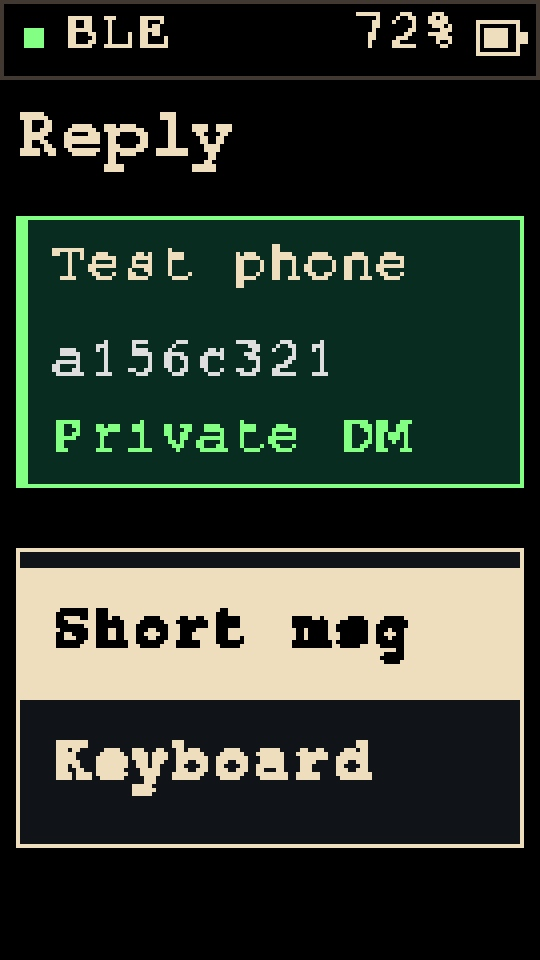
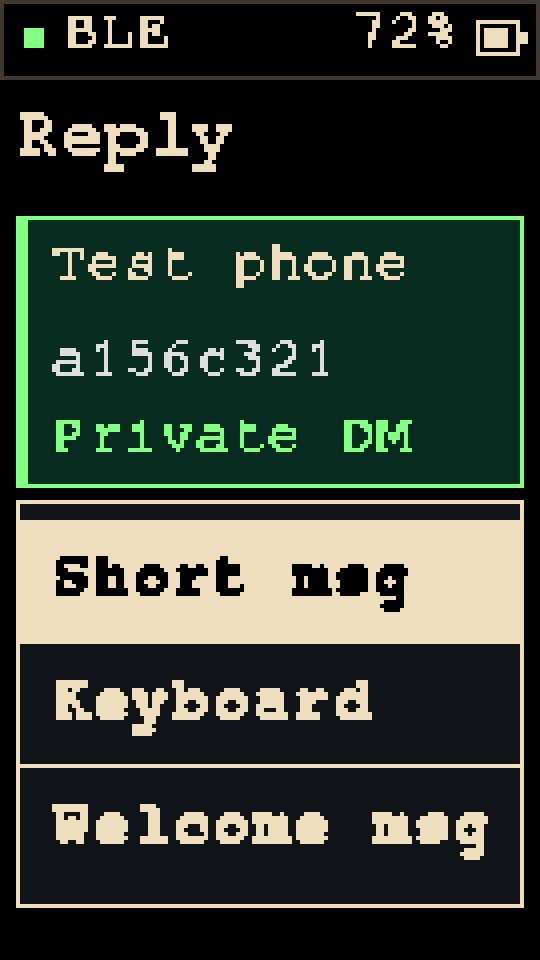
feat: add Welcome msg to composer methods
- Reuse the InfoBot introduction for explicit private or public sending.
- Keep destination/text confirmation and restore method focus when backing out.
- Verify no transmission before confirmation, cancellation and public dispatch.
- Refresh documentation and previews for the three-option picker.

Changed region(s): [[0.0296, 0.5, 0.9778, 0.9688]]

diff --git a/src/Ui.cpp b/src/Ui.cpp
@@ -310,7 +310,7 @@ void draw(const PeerTable& peers, uint32_t now) {
       panel(54,68,true);label(composer.recipientName,60,fg,13,109,compact);
       std::snprintf(value,sizeof(value),"%02x%02x%02x%02x",composer.recipient[0],composer.recipient[1],composer.recipient[2],composer.recipient[3]);
       label(privateDraft?value:"Public chat",84,muted,13,109,compact);label(privateDraft?"Private DM":"Everyone",103,green,13,109,compact);
-      const char* options[]={"Short msg", "Keyboard"};menu(options,2,137,32);
+      const char* options[]={"Short msg", "Keyboard", "Welcome msg"};menu(options,3,125,30);
       break;
     }
     case Screen::ShortMessages: {
@@ -457,7 +457,7 @@ void draw(const PeerTable& peers, uint32_t now) {
 void move(int direction, const PeerTable& peers) {
   if(screen==Screen::Channels&&detail){selection=(selection+2+direction)%2;return;}
   if(composing()) {
-    const size_t count=screen==Screen::Reply?2:screen==Screen::ShortMessages?MessageComposer::presetCount:screen==Screen::Keyboard?MessageComposer::keyCount:queuedMessage?1:reviewPages()+2;
+    const size_t count=screen==Screen::Reply?3:screen==Screen::ShortMessages?MessageComposer::presetCount:screen==Screen::Keyboard?MessageComposer::keyCount:queuedMessage?1:reviewPages()+2;
     selection=(selection+count+direction)%count;return;
   }
   if (screen == Screen::Messages) {
@@ -534,7 +534,10 @@ void updateUi(const PeerTable& peers, uint32_t now) {
       if(screen==Screen::Channels)detail=!directInbox;
     }
   } else if (action == NavigationAction::Select) {
-    if(screen==Screen::Reply){screen=selection==0?Screen::ShortMessages:Screen::Keyboard;selection=0;}
+    if(screen==Screen::Reply){
+      if(selection==2){std::snprintf(composer.draft,sizeof(composer.draft),"%s",kBotIntroduction);confirmDraft();}
+      else {screen=selection==0?Screen::ShortMessages:Screen::Keyboard;selection=0;}
+    }
     else if(screen==Screen::ShortMessages){composer.preset(selection);confirmDraft();}
     else if(screen==Screen::Keyboard){if(composer.selectKey(selection))confirmDraft();}
     else if(screen==Screen::Confirm){

diff --git a/test/ui_test.cpp b/test/ui_test.cpp
@@ -168,7 +168,11 @@ int main() {
   assert(settingsPages[settingsCount-1]==Screen::About);
   // Compose from Nearby, keep recipient/draft through navigation and fail closed without auth.
   fakeJoyc=JoycSample{};screen=Screen::Peers;selection=0;detail=false;press(0);
-  assert(screen==Screen::Reply&&has("Short msg")&&has("Keyboard"));
+  assert(screen==Screen::Reply&&has("Short msg")&&has("Keyboard")&&has("Welcome msg"));
+  const auto beforeWelcome=mesh().stats().sent;
+  selection=2;press(0);assert(screen==Screen::Confirm&&std::strcmp(composer.draft,kBotIntroduction)==0&&mesh().stats().sent==beforeWelcome);
+  press(1,true);assert(screen==Screen::Reply&&selection==2);press(0);press(0);assert(screen==Screen::Peers&&mesh().stats().sent==beforeWelcome);
+  press(0);assert(screen==Screen::Reply);
   screen=Screen::ShortMessages;
   for(selection=0;selection<MessageComposer::presetCount;++selection){draw(table,tick);check();assert(has(MessageComposer::presets[selection]));}
   selection=MessageComposer::presetCount-1;press(2);assert(selection==0);press(1);assert(selection==MessageComposer::presetCount-1);
@@ -196,7 +200,7 @@ int main() {
   screen=Screen::Channels;detail=false;selection=0;press(0);assert(detail&&has("Write msg"));
   press(2);press(0);assert(screen==Screen::Reply&&!privateDraft&&has("Public chat")&&has("#bluetooth"));
   press(0);press(0);assert(screen==Screen::Confirm&&!privateDraft);press(0);assert(screen==Screen::Channels&&detail&&!composer.ready());
-  selection=1;press(0);press(0);press(0);assert(screen==Screen::Confirm);press(1);press(0);
+  selection=1;press(0);selection=2;press(0);assert(screen==Screen::Confirm&&std::strcmp(composer.draft,kBotIntroduction)==0);press(1);press(0);
   assert(queuedMessage&&mesh().message(0)->outgoing&&!mesh().message(0)->privateMessage&&has("Done"));
   press(0);assert(screen==Screen::Channels&&detail&&selection==1);press(1,true);assert(!detail&&screen==Screen::Channels);
   // Long confirmation pages and full keyboard drafts remain within 135x240.

diff --git a/docs/14-direct-message-composer.md b/docs/14-direct-message-composer.md
@@ -6,7 +6,7 @@ Selecting an identified user in Nearby or replying to a message in Channels open
 
 Four screens use the existing cream/green FreeMono style and 135×240 portrait display:
 
-1. **Reply**: recipient, Short msg, Keyboard. Back returns to the exact source screen.
+1. **Reply**: recipient, Short msg, Keyboard and Welcome msg. Back returns to the exact source screen.
 2. **Short msgs**: 32 English presets with a sliding five-row viewport and scrollbar. Selecting one opens confirmation.
 3. **Keyboard**: draft above a small three-row QWERTY grid. A/right selects; B/C or up/down traverse keys in reading order. A fourth row offers case/numbers, space, delete and Done. Back returns to the method picker and preserves the draft. Limit: 192 ASCII characters; empty/space-only messages cannot proceed.
 4. **Confirm**: recipient, scrollable full message, Send/Cancel. Cancel is initially selected. Back returns to editing without sending. Cancel discards and returns to the source. Private Send requires a current authenticated Noise session and successful transport enqueue. Public Send requires an available subscribed BLE link and queues a signed public message. The destination is explicitly #bluetooth/Public chat for public drafts and a named peer/ID for DMs. Failure keeps the draft for retry. Queued means transport accepted, not delivered. The same screen displays authenticated delivery/read receipts if received.
@@ -63,3 +63,7 @@ Channels → #bluetooth offers Read chat and Write msg. Public confirmation show
 - [ ] Receive a fresh DM and verify body, receipt and introduction behavior after recovery.
 - [ ] #bluetooth → Write msg → choose/type text → Send: all connected phones receive a public message.
 - [ ] Public Cancel sends nothing; user Reply still sends only a DM.
+
+## Manual Welcome msg
+
+The method picker includes Welcome msg below Short msg and Keyboard. It copies the same InfoBot introduction into the draft and opens confirmation; choosing it does not transmit. Back returns to the method picker with Welcome msg focused, and Cancel returns to the original screen. Send follows the selected destination: encrypted DM for a user, signed public text for #bluetooth. Manual welcome sends do not change the one-time automatic-introduction record.

diff --git a/README.md b/README.md
@@ -53,7 +53,7 @@ The interface uses FreeMono Regular/Bold, warm cream `#EBDCBA` instead of pure w
 - Public channel-join greetings remain OFF because discovery/reconnection does not reliably prove channel entry. With Bot ON, the first fresh authenticated DM from each person receives a private introduction explaining !help/!about, once per boot for up to 32 identities.
 - An envelope in the header indicates unread incoming messages. Home and each inbox show unread counts; opening a DM sends an encrypted read receipt. New arrivals preserve the current reading position. Unread state is RAM-only.
 - Channels → #bluetooth offers Read chat and Write msg; public drafts show the channel explicitly and use signed public sending. Replying to a user remains private.
-- Nearby users and Channels messages open a private composer: 32 scrolling Short msg presets or a QWERTY keyboard, then Send/Cancel. Drafts are bounded to 192 ASCII characters. Sending requires an authenticated live session; Queued, Delivered and Read are distinct states. See the [composer and device checklist](docs/14-direct-message-composer.md).
+- Nearby users and Channels messages open a private composer: 32 scrolling Short msg presets, a QWERTY keyboard, or Welcome msg using the shared introduction, then Send/Cancel. Drafts are bounded to 192 ASCII characters. Sending requires an authenticated live session; Queued, Delivered and Read are distinct states. See the [composer and device checklist](docs/14-direct-message-composer.md).
 - Drawing uses a 135 × 240 offscreen framebuffer before updating the display, avoiding the visible erase/redraw cycle.
 
 Private media, private groups, Nostr, gossip/history synchronization, arbitrary routed Noise forwarding, OTA, persistent chat history remain future scope. See the [wire contract and security limits](docs/12-wire-contract.md) and [current implementation plan](docs/11-implementation-plan.md).

diff --git a/docs/04-screens.md b/docs/04-screens.md
@@ -129,7 +129,7 @@ The driver follows the local working Nemo reference's M5Unified transaction sequ
 
 ## Private composer — four additional screens
 
-Nearby A selects the currently displayed identified user. Channels A opens the text reader; A again starts a private reply to that message's user. Reply offers Short msg/Keyboard; Short msgs provides 32 ready-made English messages with a sliding five-row viewport and scrollbar; Keyboard puts the draft above a compact QWERTY layout; Confirm shows the recipient and paged draft, then Send/Cancel. Cancel is initially selected.
+Nearby A selects the currently displayed identified user. Channels A opens the text reader; A again starts a private reply to that message's user. Reply offers Short msg/Keyboard/Welcome msg; Short msgs provides 32 ready-made English messages with a sliding five-row viewport and scrollbar; Keyboard puts the draft above a compact QWERTY layout; Confirm shows the recipient and paged draft, then Send/Cancel. Cancel is initially selected.
 
 B/C and JoyC up/down traverse the keyboard in reading order. A/right selects, left/hold-B backs out one step. ABC/123/abc switches case/numbers, SP inserts a space, DEL removes the last character, and OK opens confirmation. The confirmation text pages participate in the same focus cycle as Send and Cancel, allowing the full 192-character draft to be reviewed.
 

diff --git a/docs/06-testing.md b/docs/06-testing.md
@@ -157,3 +157,7 @@ Nineteen native suites and independent CryptoKit verification passed; the target
 ## Owner confirmation and Channels label — 2026-11-11
 
 In response to the requested DM and #bluetooth Write msg checks, the owner confirmed that both worked correctly. This closes the general recovery/public-writing acceptance for the tested setup; no separate Android/iOS, endurance or all-peer receipt result is inferred. The navigation label was subsequently renamed from Inbox to Channels; public/private destinations and controls are unchanged.
+
+## Manual Welcome msg — 2026-11-11
+
+Nineteen native suites and independent CryptoKit verification passed. UI coverage confirms that selecting Welcome msg copies the exact shared introduction without sending, Back restores the third method selection, Cancel transmits nothing, and an explicitly confirmed public welcome stays public. The Plus2 target compiled successfully; private/public method pickers and welcome confirmation states were also updated and visually reviewed in Figma. Actual phone reception of a manually selected welcome remains a device acceptance check.

diff --git a/CHANGELOG.md b/CHANGELOG.md
@@ -6,6 +6,8 @@ User-visible changes and validation evidence are recorded here in English (en-US
 
 ### Added
 
+- Welcome msg in the composer method picker, using the shared introduction text and explicit confirmation for private or public destinations.
+
 - Read chat/Write msg actions in #bluetooth, using the shared composer with explicit public destination confirmation.
 
 - First-DM private introduction explaining !help/!about, controlled by Bot ON/OFF and remembered by authenticated peer ID for the current boot (32 identities, no eviction). Public traffic/reconnections never trigger it; queue failures can retry on the next new DM.

diff --git a/docs/15-infobot.md b/docs/15-infobot.md
@@ -59,3 +59,5 @@ A first DM containing a recognized command still receives its normal private com
 - [ ] Try Bot OFF, then ON and another new DM: introduction is suppressed while OFF.
 - [ ] Test !help as first contact: command response and introduction both stay private.
 - [ ] Restart: the next fresh DM can introduce the Stick again.
+
+The composer also offers Welcome msg to send this introduction manually. It uses the ordinary destination/text confirmation and may be sent publicly or privately by explicit user action. It is independent of the automatic introduction cache.
